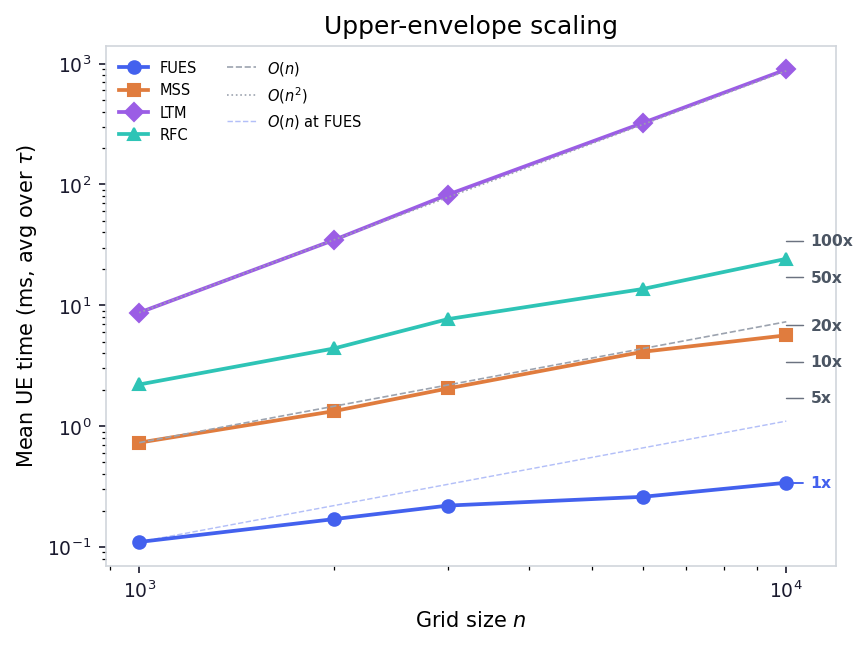
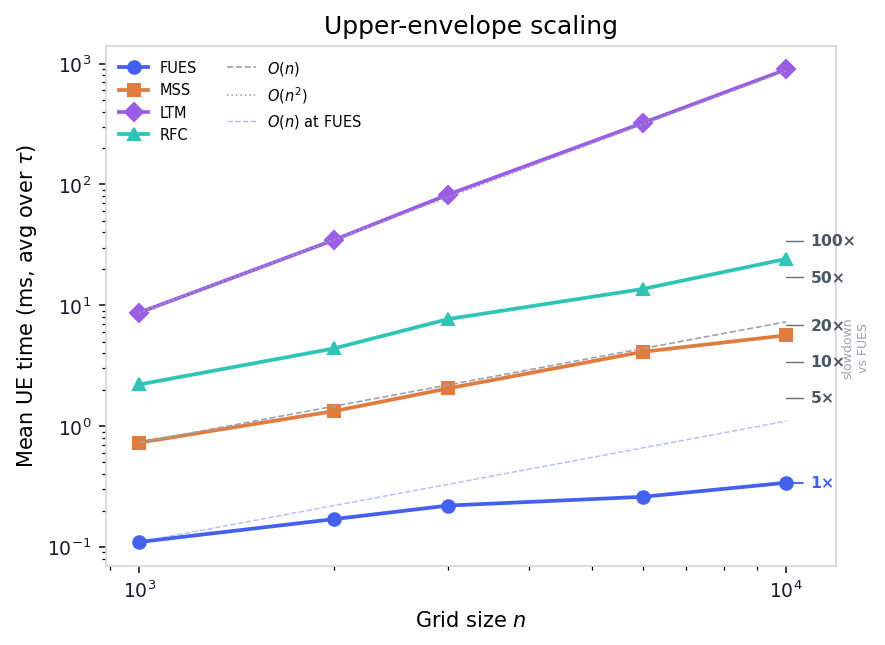
Add 'slowdown vs FUES' label to right-margin speedup ticks
Made-with: Cursor

diff --git a/examples/retirement/notebooks/nb_pbs.py b/examples/retirement/notebooks/nb_pbs.py
@@ -113,23 +113,31 @@ def plot_pbs_scaling(path, ax=None):
     # ── Speedup factor ticks on the right margin ──
     fues_last = means['FUES'][-1]
     ylim = ax.get_ylim()
+    tick_ys = []
     for factor in [5, 10, 20, 50, 100]:
         y = fues_last * factor
         if y < ylim[0] or y > ylim[1]:
             continue
+        tick_ys.append(y)
         ax.plot([ns[-1], ns[-1] * 1.06], [y, y],
                 color='#6b7280', linewidth=0.7, clip_on=False,
                 solid_capstyle='round')
-        ax.text(ns[-1] * 1.09, y, f'{factor}x',
+        ax.text(ns[-1] * 1.09, y, f'{factor}\u00d7',
                 fontsize=7.5, fontweight='600', color='#4b5563',
                 va='center', ha='left', clip_on=False)
     if ylim[0] <= fues_last <= ylim[1]:
+        tick_ys.append(fues_last)
         ax.plot([ns[-1], ns[-1] * 1.06], [fues_last, fues_last],
                 color=mc['FUES'], linewidth=0.9, clip_on=False,
                 solid_capstyle='round')
-        ax.text(ns[-1] * 1.09, fues_last, '1x',
+        ax.text(ns[-1] * 1.09, fues_last, '1\u00d7',
                 fontsize=7.5, fontweight='700', color=mc['FUES'],
                 va='center', ha='left', clip_on=False)
+    if tick_ys:
+        mid_y = np.exp(np.mean(np.log(tick_ys)))
+        ax.text(ns[-1] * 1.28, mid_y, 'slowdown\nvs FUES',
+                fontsize=6, color='#9ca3af', ha='center', va='center',
+                rotation=90, clip_on=False, linespacing=1.3)
 
     ax.set_xlabel('Grid size $n$')
     ax.set_ylabel('Mean UE time (ms, avg over $\\tau$)')
